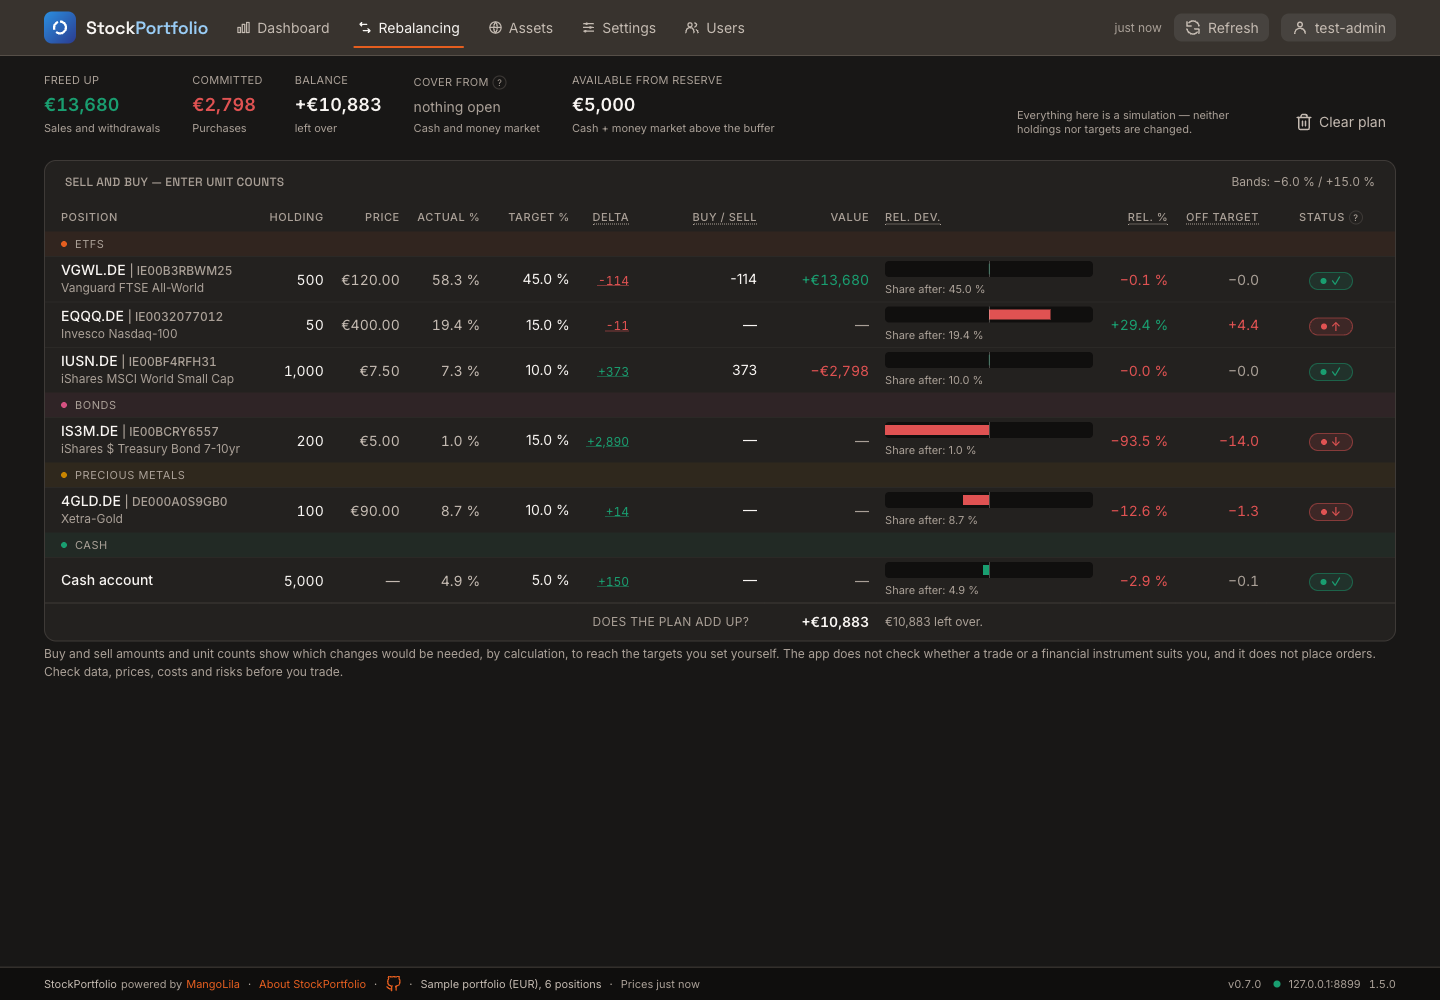
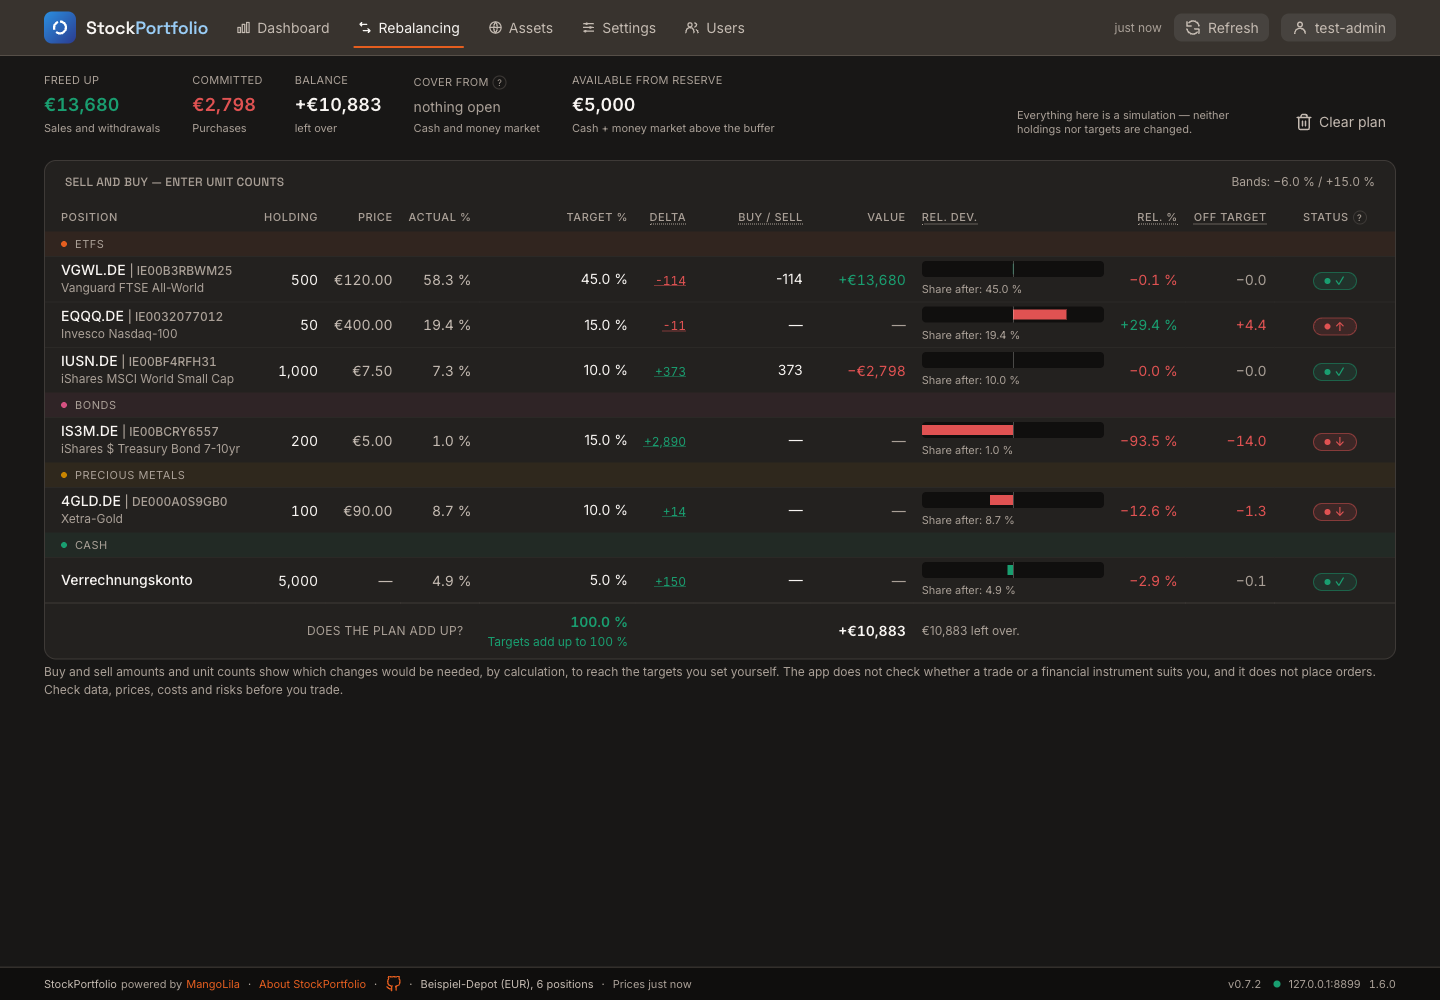
feat(rebalancing): Zielsumme in der Fußzeile unter „Ziel %“
Die Fußzeile „Geht der Plan auf?“ zeigt unter der Zielspalte die Summe
aller, auch probeweise geänderten Ziele und die Abweichung von 100 %
(„+1,0 % zu viel“, „−1,0 % fehlen“, „Ziele ergeben 100 %“), grün bei
100 %, rot sonst. Toast und Fußzeile lesen denselben Zustand mit
derselben Toleranz. Zweizeilig statt Tooltip, damit die Antwort beim
Tippen ohne Zeigen sichtbar ist.

Browserprüfung notice-texts-check.mjs um den Schritt ergänzt (Ziel +1,
Summe, Abweichung, Markierung, Toast); Nutzerdoku und Screenshot
nachgezogen.

T-97

diff --git a/frontend/src/views/RebalancingView.vue b/frontend/src/views/RebalancingView.vue
@@ -102,17 +102,23 @@ const planHasEntries = computed(
   () => hasTrades(trades.value) || Object.keys(targets.value).length > 0,
 )
 
-/** Weichen die probeweisen Ziele in Summe von 100 % ab? */
 /**
- * Weichen die Ziele in Summe von 100 % ab?
+ * Lage der Zielsumme, auch probeweiser Ziele, zu 100 % — für Toast und
+ * Fußzeile aus derselben Quelle (T-97). Die Toleranz schluckt Rundungsreste
+ * der Eingabe.
  *
- * Nicht im leeren Depot: Dort ist die Summe naturgemäß 0, und eine Warnung
+ * `null` im leeren Depot: Dort ist die Summe naturgemäß 0, und eine Warnung
  * darüber wäre die erste Meldung, die ein neuer Nutzer zu sehen bekäme — für
  * einen Zustand, den er gar nicht herbeigeführt hat.
  */
-const targetSumOff = computed(
-  () => hasHoldings.value && plan.value !== null && Math.abs(plan.value.targetSum - 100) > 0.01,
-)
+const targetSumState = computed<'balanced' | 'over' | 'under' | null>(() => {
+  if (!hasHoldings.value || plan.value === null) return null
+  const deviation = plan.value.targetSum - 100
+  if (Math.abs(deviation) <= 0.01) return 'balanced'
+  return deviation > 0 ? 'over' : 'under'
+})
+
+const targetSumOff = computed(() => targetSumState.value === 'over' || targetSumState.value === 'under')
 
 function setTrade(positionId: string, units: number): void {
   trades.value = { ...trades.value, [positionId]: units }
@@ -607,9 +613,33 @@ const { formatMoney, formatMoneyCents, formatMoneySigned } = usePortfolioCurrenc
               <!-- Bilanz des Plans -->
               <tfoot>
                 <tr class="reb__foot">
-                  <td colspan="7" class="reb__foot-label">
+                  <td colspan="4" class="reb__foot-label">
                     {{ t('rebalancing.footerQuestion') }}
                   </td>
+                  <!--
+                  Unter „Ziel %“: Summe und Abweichung zweizeilig statt als
+                  Tooltip — beim Tippen in die Zielspalte soll die Antwort
+                  ohne Zeigen direkt darunter stehen, wie die Geldbilanz.
+                  -->
+                  <td
+                    class="reb__foot-value reb__foot-target tabular-nums"
+                    :class="{
+                      'reb__flow--in': targetSumState === 'balanced',
+                      'reb__flow--out': targetSumOff,
+                    }"
+                  >
+                    {{ percent(plan.targetSum) }}
+                    <span v-if="targetSumState" class="reb__foot-deviation">
+                      <template v-if="targetSumState === 'balanced'">{{ t('rebalancing.footerTargetsBalanced') }}</template>
+                      <template v-else-if="targetSumState === 'over'">
+                        {{ t('rebalancing.footerTargetsOver', { deviation: percentSigned(plan.targetSum - 100) }) }}
+                      </template>
+                      <template v-else>
+                        {{ t('rebalancing.footerTargetsUnder', { deviation: percentSigned(plan.targetSum - 100) }) }}
+                      </template>
+                    </span>
+                  </td>
+                  <td colspan="2"></td>
                   <td
                     class="reb__foot-value tabular-nums"
                     :class="
@@ -929,6 +959,15 @@ const { formatMoney, formatMoneyCents, formatMoneySigned } = usePortfolioCurrenc
     padding: var(--space-2);
     font-weight: 600;
     text-align: right;
+  }
+
+  &__foot-target { vertical-align: top; }
+
+  &__foot-deviation {
+    display: block;
+    font-size: var(--font-xs);
+    font-weight: 400;
+    white-space: nowrap;
   }
 
   &__foot-note {

diff --git a/frontend/tests/components/rebalancingDeviation.spec.ts b/frontend/tests/components/rebalancingDeviation.spec.ts
@@ -128,3 +128,60 @@ describe('Relative Abweichung im Rebalancing', () => {
     expect(wrapper!.find('thead').text()).toContain('Off target')
   })
 })
+
+describe('Zielsumme in der Fußzeile (T-97)', () => {
+  /** Zielfeld der Testzeile probeweise setzen; die Bargeldzeile hält 90 %. */
+  async function setAssetTarget(row: Awaited<ReturnType<typeof renderPlan>>, targetPercent: number) {
+    row.findAllComponents(UxInlineNumber)[0]!.vm.$emit('commit', targetPercent)
+    await flushPromises()
+    return wrapper!.find('tfoot .reb__foot-target')
+  }
+
+  it('steht unter der Spalte „Ziel %“', async () => {
+    await renderPlan()
+    const headers = wrapper!.findAll('thead th').map(cell => cell.text())
+    const footCells = wrapper!.findAll('tfoot td')
+    const column = footCells.slice(0, footCells.findIndex(cell => cell.classes('reb__foot-target')))
+      .reduce((sum, cell) => sum + Number(cell.attributes('colspan') ?? 1), 0)
+    expect(headers[column]).toBe(i18n.global.t('table.targetPercent'))
+  })
+
+  it('zeigt bei 100 % den ausgeglichenen Zustand', async () => {
+    await renderPlan()
+    const cell = wrapper!.find('tfoot .reb__foot-target')
+    expect(cell.text()).toBe('100,0 % Ziele ergeben 100 %')
+    expect(cell.classes()).toContain('reb__flow--in')
+    expect(cell.classes()).not.toContain('reb__flow--out')
+  })
+
+  it.each([
+    [11, '101,0 %', '+1,0 % zu viel'],
+    [9, '99,0 %', '−1,0 % fehlen'],
+  ])('zeigt probeweises Ziel %s als Summe %s mit „%s“', async (target, sum, deviation) => {
+    const row = await renderPlan()
+    const cell = await setAssetTarget(row, target)
+    expect(cell.text()).toBe(`${sum} ${deviation}`)
+    expect(cell.classes()).toContain('reb__flow--out')
+    expect(cell.classes()).not.toContain('reb__flow--in')
+    expect(document.body.textContent).toContain(`Die Ziele ergeben zusammen ${sum} statt 100 %`)
+  })
+
+  it('beschriftet Summe und Abweichung auf Englisch', async () => {
+    i18n.global.locale.value = 'en'
+    setFormatterLocale('en-GB')
+    const row = await renderPlan()
+    expect(wrapper!.find('tfoot .reb__foot-target').text()).toBe('100.0 % Targets add up to 100 %')
+    expect((await setAssetTarget(row, 12.5)).text()).toBe('102.5 % +2.5 % too much')
+    expect((await setAssetTarget(row, 7)).text()).toBe('97.0 % −3.0 % missing')
+  })
+
+  it('zeigt im leeren Depot keine Fußzeile und keine Abweichung', async () => {
+    await renderPlan()
+    const portfolio = usePortfolioStore().portfolio!
+    // Nur Bargeld: Die Ziele ergeben 90 %, gelten aber noch als leeres Depot.
+    portfolio.positions = portfolio.positions.filter(position => position.group === 'cash')
+    await flushPromises()
+    expect(wrapper!.find('tfoot .reb__foot-target').exists()).toBe(false)
+    expect(document.body.textContent).not.toContain('Ziele ergeben nicht 100 %')
+  })
+})

diff --git a/frontend/src/i18n/en.ts b/frontend/src/i18n/en.ts
@@ -524,6 +524,9 @@ export const en: MessageSchema = {
     footerBalanced: 'Purchases and sales cancel out.',
     footerLeftOver: '{amount} left over.',
     footerShort: '{amount} comes from the reserve.',
+    footerTargetsBalanced: 'Targets add up to 100 %',
+    footerTargetsOver: '{deviation} too much',
+    footerTargetsUnder: '{deviation} missing',
     underfundedTitle: 'Plan not covered',
     underfundedBody:
       '{amount} is missing for the planned purchases. Sell an instrument or withdraw from cash or money market — enter the withdrawal there as a negative number.',

diff --git a/frontend/src/i18n/de.ts b/frontend/src/i18n/de.ts
@@ -537,6 +537,9 @@ export const de = {
     footerBalanced: 'Käufe und Verkäufe gleichen sich aus.',
     footerLeftOver: '{amount} bleiben übrig.',
     footerShort: '{amount} kommen aus der Reserve.',
+    footerTargetsBalanced: 'Ziele ergeben 100 %',
+    footerTargetsOver: '{deviation} zu viel',
+    footerTargetsUnder: '{deviation} fehlen',
     underfundedTitle: 'Plan nicht gedeckt',
     underfundedBody:
       'Für die geplanten Käufe fehlen {amount}. Verkaufe ein Papier oder entnimm aus Cash bzw. Geldmarkt — trage die Entnahme dort als negative Zahl ein.',

diff --git a/docs/user-guide.md b/docs/user-guide.md
@@ -165,6 +165,12 @@ sind grün, negative rot. Bei einem Ziel von null ist die relative Abweichung
 nicht definiert. Die gepunkteten Spaltenköpfe erklären die Begriffe beim
 Darüberfahren.
 
+Die letzte Zeile beantwortet „Geht der Plan auf?“ zweimal: Unter _Ziel %_
+steht die Summe aller Ziele, auch der probeweise geänderten, mit der
+Abweichung von 100 % (etwa „+1,0 % zu viel“). Grün heißt, die Ziele ergeben
+100 %; rot heißt, eine Position bekommt mehr oder weniger, als eine andere
+abgibt. Rechts daneben steht die Geldbilanz der Käufe und Verkäufe.
+
 Auf schmalen Bildschirmen verschwinden zuerst der Balken (unter 1280 px), dann
 der Simulationshinweis (unter 1160 px). Unter 890 px scrollen Zusammenfassung
 und Tabelle gemeinsam waagrecht, auch per Tastatur.
